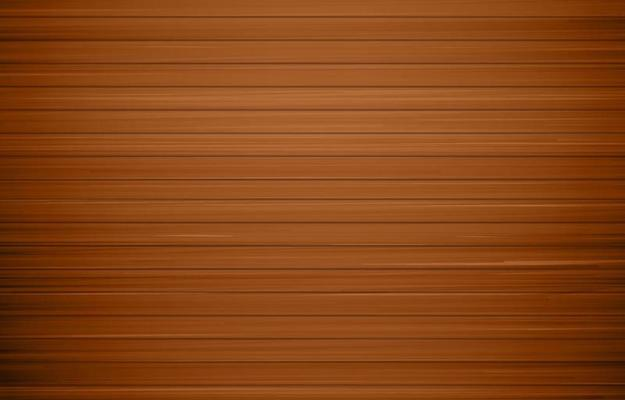
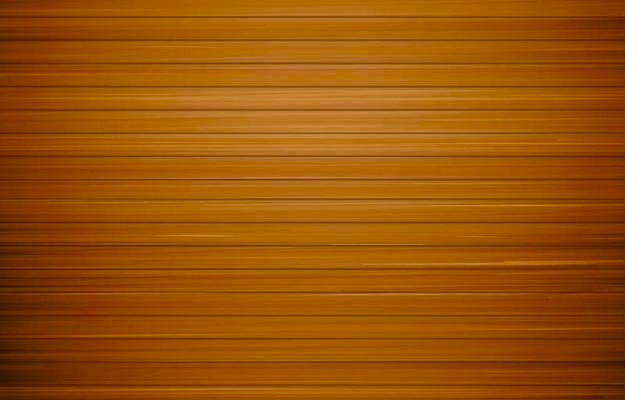
added background and moved the tortilla and bowl up

diff --git a/base.html b/base.html
@@ -5,13 +5,7 @@
     <meta name="viewport" content="width=device-width, initial-scale=1.0">
     <link rel="stylesheet" href="base.css">
     <title>Mama's Chipotleria</title>
-</head>
-<body>
-    <canvas style="background-color: rgb(245, 240, 229);height:80%; width:100%" ></canvas>
-    <script    src="base.js"    ></script>
-</body>
 
-<head>
   <style>
     .myImage {
       display: none;
@@ -30,14 +24,24 @@
     }
   </script>
 </head>
+<header>
+  <h1>BASE!</h1>
+</header>
 <body>
+
+  <img id="image1" class="myImage" src="tortilla.png" alt="Image 1" >
+  <img id="image2" class="myImage" src="bowl.png" alt="Image 2" >
+
+  <!-- <img id="image3" class="myImage" src="whiteRice.png" alt="Image 3">
+  <img id="image4" class="myImage" src="brownRice.png" alt="Image 4"> -->
+
 
   <button onclick="showImage('image1')">Tortilla</button>
   <button onclick="showImage('image2')">Bowl</button>
-  <!-- <button onclick="showImage('image3')">Show Image 3</button> -->
 
-  <img id="image1" class="myImage" src="tortilla.png" alt="Image 1" class="right">
-  <img id="image2" class="myImage" src="bowl.png" alt="Image 2" class="right">
+  <!-- <button onclick="showImage('image3')">White Rice</button>
+  <button onclick="showImage('image4')">Brown Rice</button> -->
+  <!-- <button onclick="showImage('image3')">Show Image 3</button> -->
   <!-- <img id="image3" class="myImage" src="your-image-url3.jpg" alt="Image 3"> -->
 
 </body>
@@ -72,7 +76,10 @@
             }
 
             header{
-                text-align: center;
+                padding:5px;
+                text-align: left;
+                background-color: maroon;
+                color: bisque;
             }
 
             .navbar a{
@@ -81,6 +88,21 @@
                 right: 0; 
                 z-index: 5;
                 position: fixed;
+            }
+
+            .right{
+                margin-left: 300px;
+                margin-top: 200px;
+            }
+
+            .left{
+                margin-right: 300px;
+                margin-top: 1000px;
+            }
+
+            body {
+                background-image: url('woodBackground.jpg');
+                background-size: cover;
             }
 
         </style>
